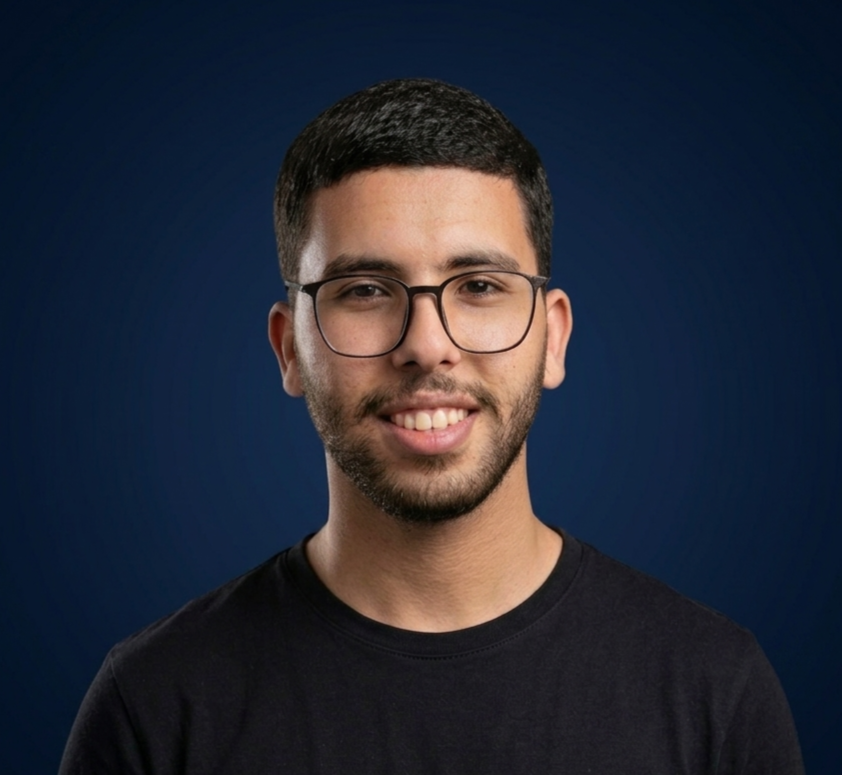
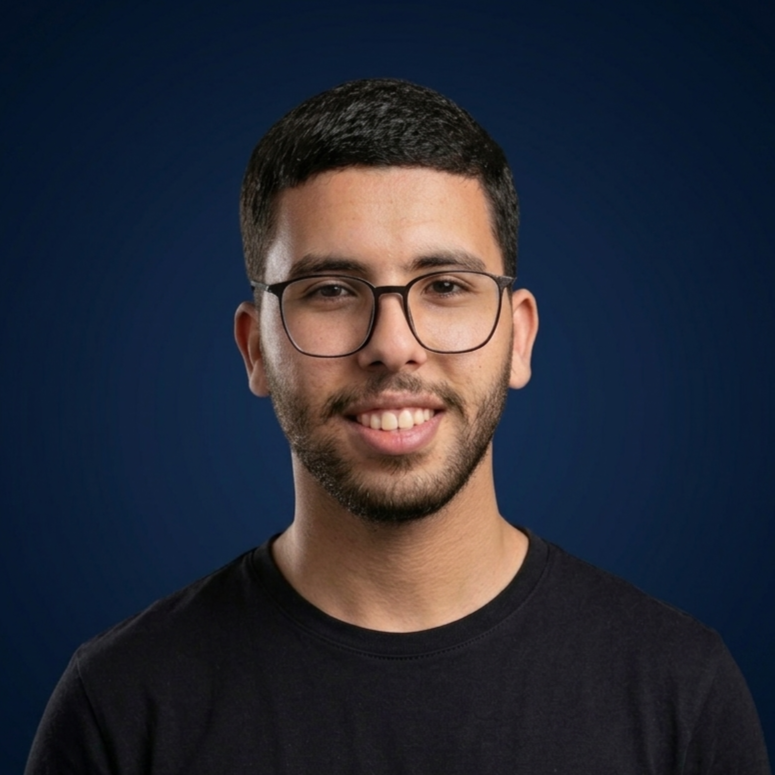
fixing image

diff --git a/src/components/ProfilePhoto3D.jsx b/src/components/ProfilePhoto3D.jsx
@@ -91,8 +91,9 @@ export const ProfilePhoto3D = ({
         if (disposed) return;
         photoTexture = tex;
         tex.colorSpace = THREE.SRGBColorSpace;
-        tex.minFilter = THREE.LinearMipmapLinearFilter;
+        tex.minFilter = THREE.LinearFilter;
         tex.magFilter = THREE.LinearFilter;
+        tex.generateMipmaps = false;
         tex.anisotropy = renderer.capabilities.getMaxAnisotropy();
         photoMat.map = tex;
         photoMat.needsUpdate = true;